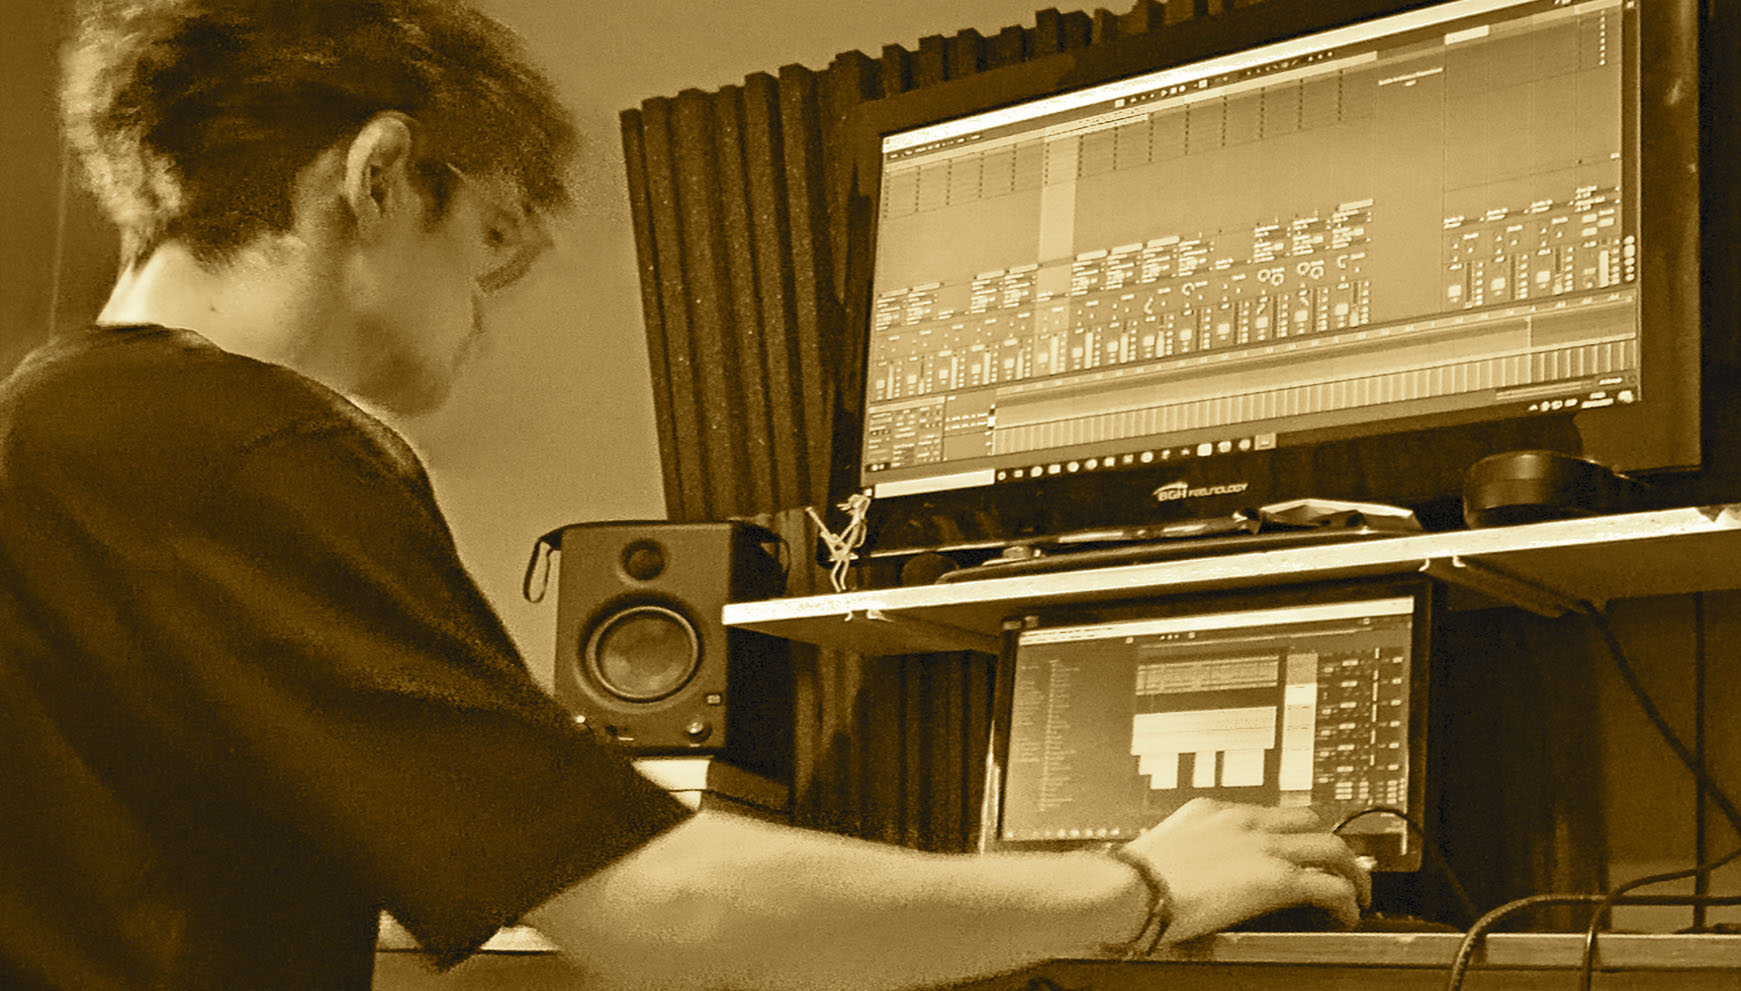
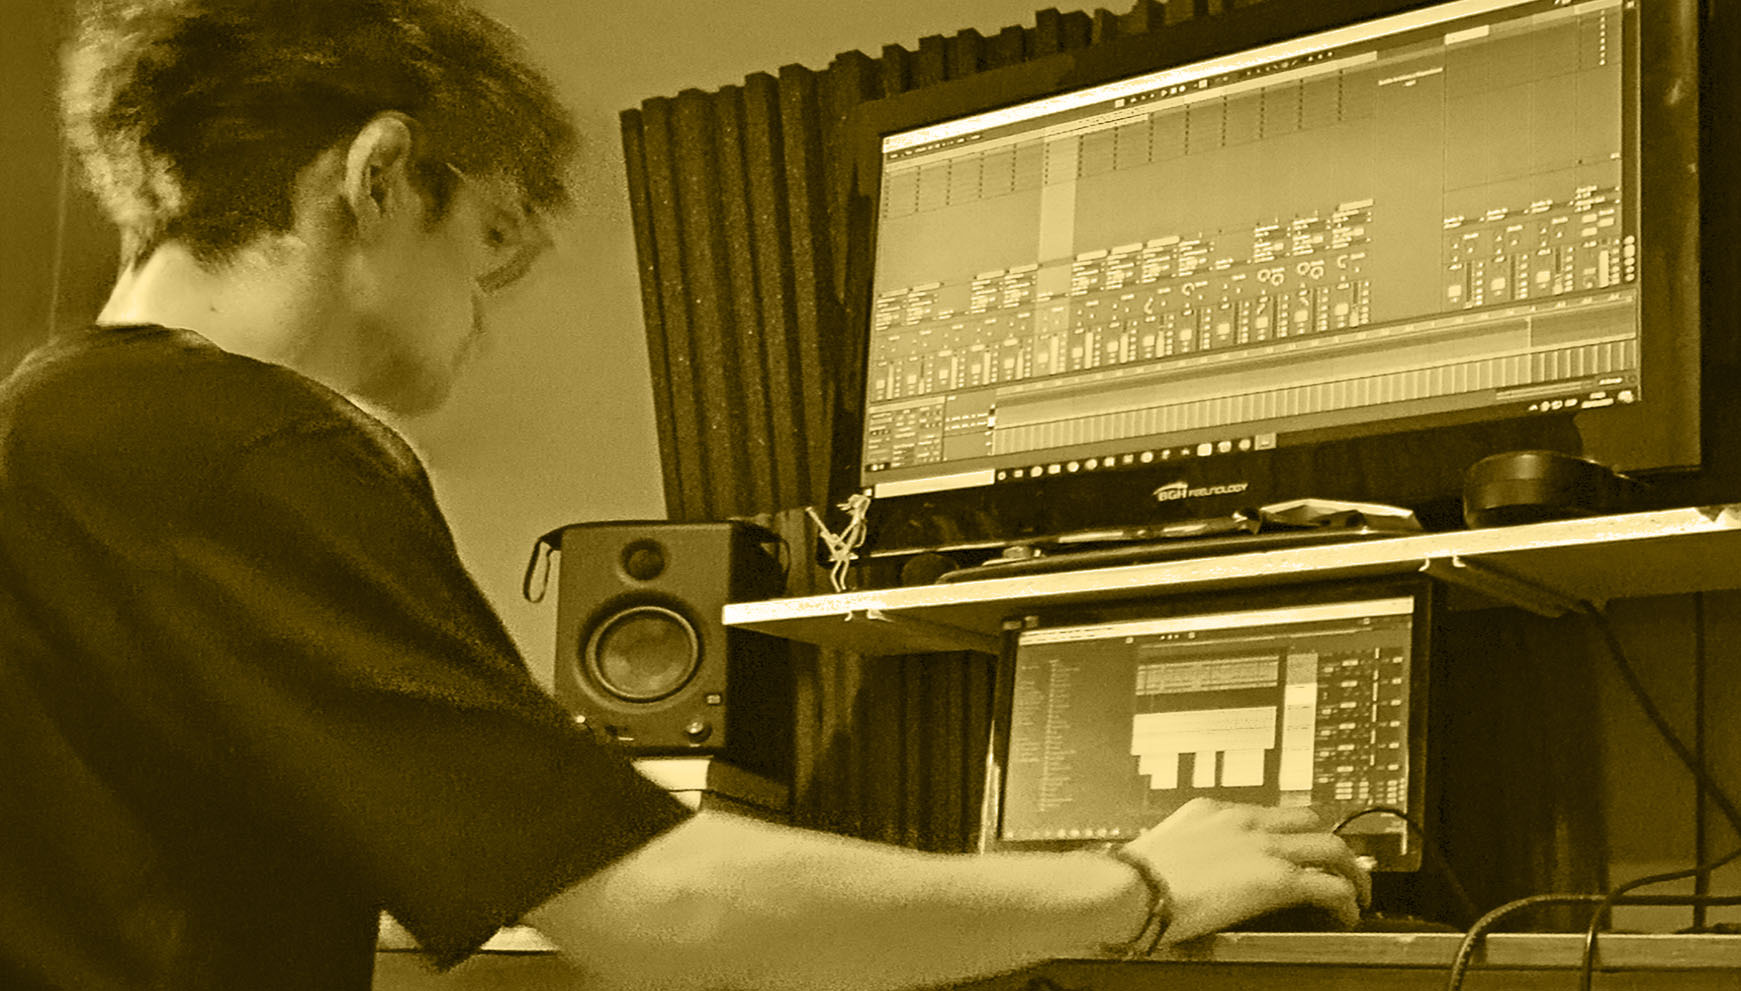
commit pre-server 2

diff --git a/scss/pages/_Produccion.scss b/scss/pages/_Produccion.scss
@@ -28,7 +28,7 @@
 
 .prodText {
     grid-area: head;
-    @include bg (none, url(../Imagenes/produccion-2-lessPOSTA.png), no-repeat, cover, auto, auto);
+    @include bg (none, url(../Imagenes/produccion-2-lessPOSTA.jpg), no-repeat, cover, auto, auto);
     @include flexbox (flex, row nowrap, flex-start, center);
     height: 60vh;
     margin-bottom: 5vh;
@@ -54,8 +54,8 @@
     padding: 10% 0;
         .photoSlider {
             .photoSlider img {
-                opacity: 0.5;
-                border: white solid 4px;
+                opacity: 1;
+                border: white solid 2px;
                 border-radius: 25px;
                 &:hover {
                     opacity: 1;
@@ -162,6 +162,31 @@
                     }
             }
 
+            .prodCarrusel {
+                grid-area: desc;
+                height: 30vh;
+                padding: 10% 0;
+                    .photoSlider {
+                        .photoSlider img {
+                            opacity: 1;
+                            border: white solid 3px;
+                            border-radius: 25px;
+                            &:hover {
+                                opacity: 1;
+                                cursor: pointer;
+                                border-radius: 25px;
+                            }
+                        }
+                        .photoSlider h5 {
+                            font-size: 2rem;
+                            text-shadow: 2px 2px 0px rgba(0, 0, 0, 1);
+                        }
+                        .photoSlider p {
+                            font-size: 1rem;
+                            text-shadow: 2px 2px 0px rgba(0, 0, 0, 1);
+                        }
+                    }    
+
             .prodVideos {
                 margin-bottom: 10vh;
                     .iframeYoutube {
@@ -169,7 +194,7 @@
                     }
             }
        }
-
+    }
 // ----------------------------------- EXTRA LARGE SIZE---------------------------------------
 
        @media only screen and (min-width: 1024px) and (max-width: 1200px) {
@@ -186,6 +211,21 @@
                     }
             }
        }
+       .prodCarrusel {
+            .photoSlider {
+                .photoSlider img {
+                    border: white solid 4px;
+                }
+                .photoSlider h5 {
+                    font-size: 2.5rem;
+                    text-shadow: 2px 2px 0px rgba(0, 0, 0, 1);
+                }
+                .photoSlider p {
+                    font-size: 1.5rem;
+                    text-shadow: 2px 2px 0px rgba(0, 0, 0, 1);
+                }
+            }    
+        }
     }
    
 // ----------------------------------- EXTRA LARGE SIZE---------------------------------------
@@ -203,6 +243,7 @@
                 width: 90%;
                 .prodText__p {
                     font-size: 1.5rem;
+                    font-weight: 400;
                     padding: 3rem;
                     width: 100%;
                     background: rgba(0, 0, 0, 0.8);
@@ -270,6 +311,7 @@
             width: 100%;
             border: solid white 2px;
         }
-}
+    }
 
-}
+    }
+

diff --git a/css/main.css b/css/main.css
@@ -1151,7 +1151,7 @@
 .prodText {
   grid-area: head;
   background-color: none;
-  background-image: url(../Imagenes/produccion-2-lessPOSTA.png);
+  background-image: url(../Imagenes/produccion-2-lessPOSTA.jpg);
   background-repeat: no-repeat;
   background-size: cover;
   background-position: auto;
@@ -1177,8 +1177,8 @@
   height: 30vh;
   padding: 10% 0; }
   .prodCarrusel .photoSlider .photoSlider img {
-    opacity: 0.5;
-    border: white solid 4px;
+    opacity: 1;
+    border: white solid 2px;
     border-radius: 25px; }
     .prodCarrusel .photoSlider .photoSlider img:hover {
       opacity: 1;
@@ -1246,10 +1246,28 @@
   .linksProd .linksProd__h2 {
     margin-top: 25vh;
     border-radius: 15px; }
-  .prodVideos {
-    margin-bottom: 10vh; }
-    .prodVideos .iframeYoutube {
-      border: solid white 1px; } }
+  .prodCarrusel {
+    grid-area: desc;
+    height: 30vh;
+    padding: 10% 0; }
+    .prodCarrusel .photoSlider .photoSlider img {
+      opacity: 1;
+      border: white solid 3px;
+      border-radius: 25px; }
+      .prodCarrusel .photoSlider .photoSlider img:hover {
+        opacity: 1;
+        cursor: pointer;
+        border-radius: 25px; }
+    .prodCarrusel .photoSlider .photoSlider h5, .prodCarrusel .photoSlider .photoSlider .h5 {
+      font-size: 2rem;
+      text-shadow: 2px 2px 0px black; }
+    .prodCarrusel .photoSlider .photoSlider p {
+      font-size: 1rem;
+      text-shadow: 2px 2px 0px black; }
+    .prodCarrusel .prodVideos {
+      margin-bottom: 10vh; }
+      .prodCarrusel .prodVideos .iframeYoutube {
+        border: solid white 1px; } }
 
 @media only screen and (min-width: 1024px) and (max-width: 1200px) {
   .prodText .prodText__text {
@@ -1260,7 +1278,15 @@
       font-size: 1.5rem;
       margin-left: 3%;
       position: relative;
-      top: 10%; } }
+      top: 10%; }
+  .prodCarrusel .photoSlider .photoSlider img {
+    border: white solid 4px; }
+  .prodCarrusel .photoSlider .photoSlider h5, .prodCarrusel .photoSlider .photoSlider .h5 {
+    font-size: 2.5rem;
+    text-shadow: 2px 2px 0px black; }
+  .prodCarrusel .photoSlider .photoSlider p {
+    font-size: 1.5rem;
+    text-shadow: 2px 2px 0px black; } }
 
 @media only screen and (min-width: 1201px) and (max-width: 4000px) {
   .produccion__main {
@@ -1274,6 +1300,7 @@
       width: 90%; }
       .prodText .prodText__text .prodText__p {
         font-size: 1.5rem;
+        font-weight: 400;
         padding: 3rem;
         width: 100%;
         background: rgba(0, 0, 0, 0.8);
